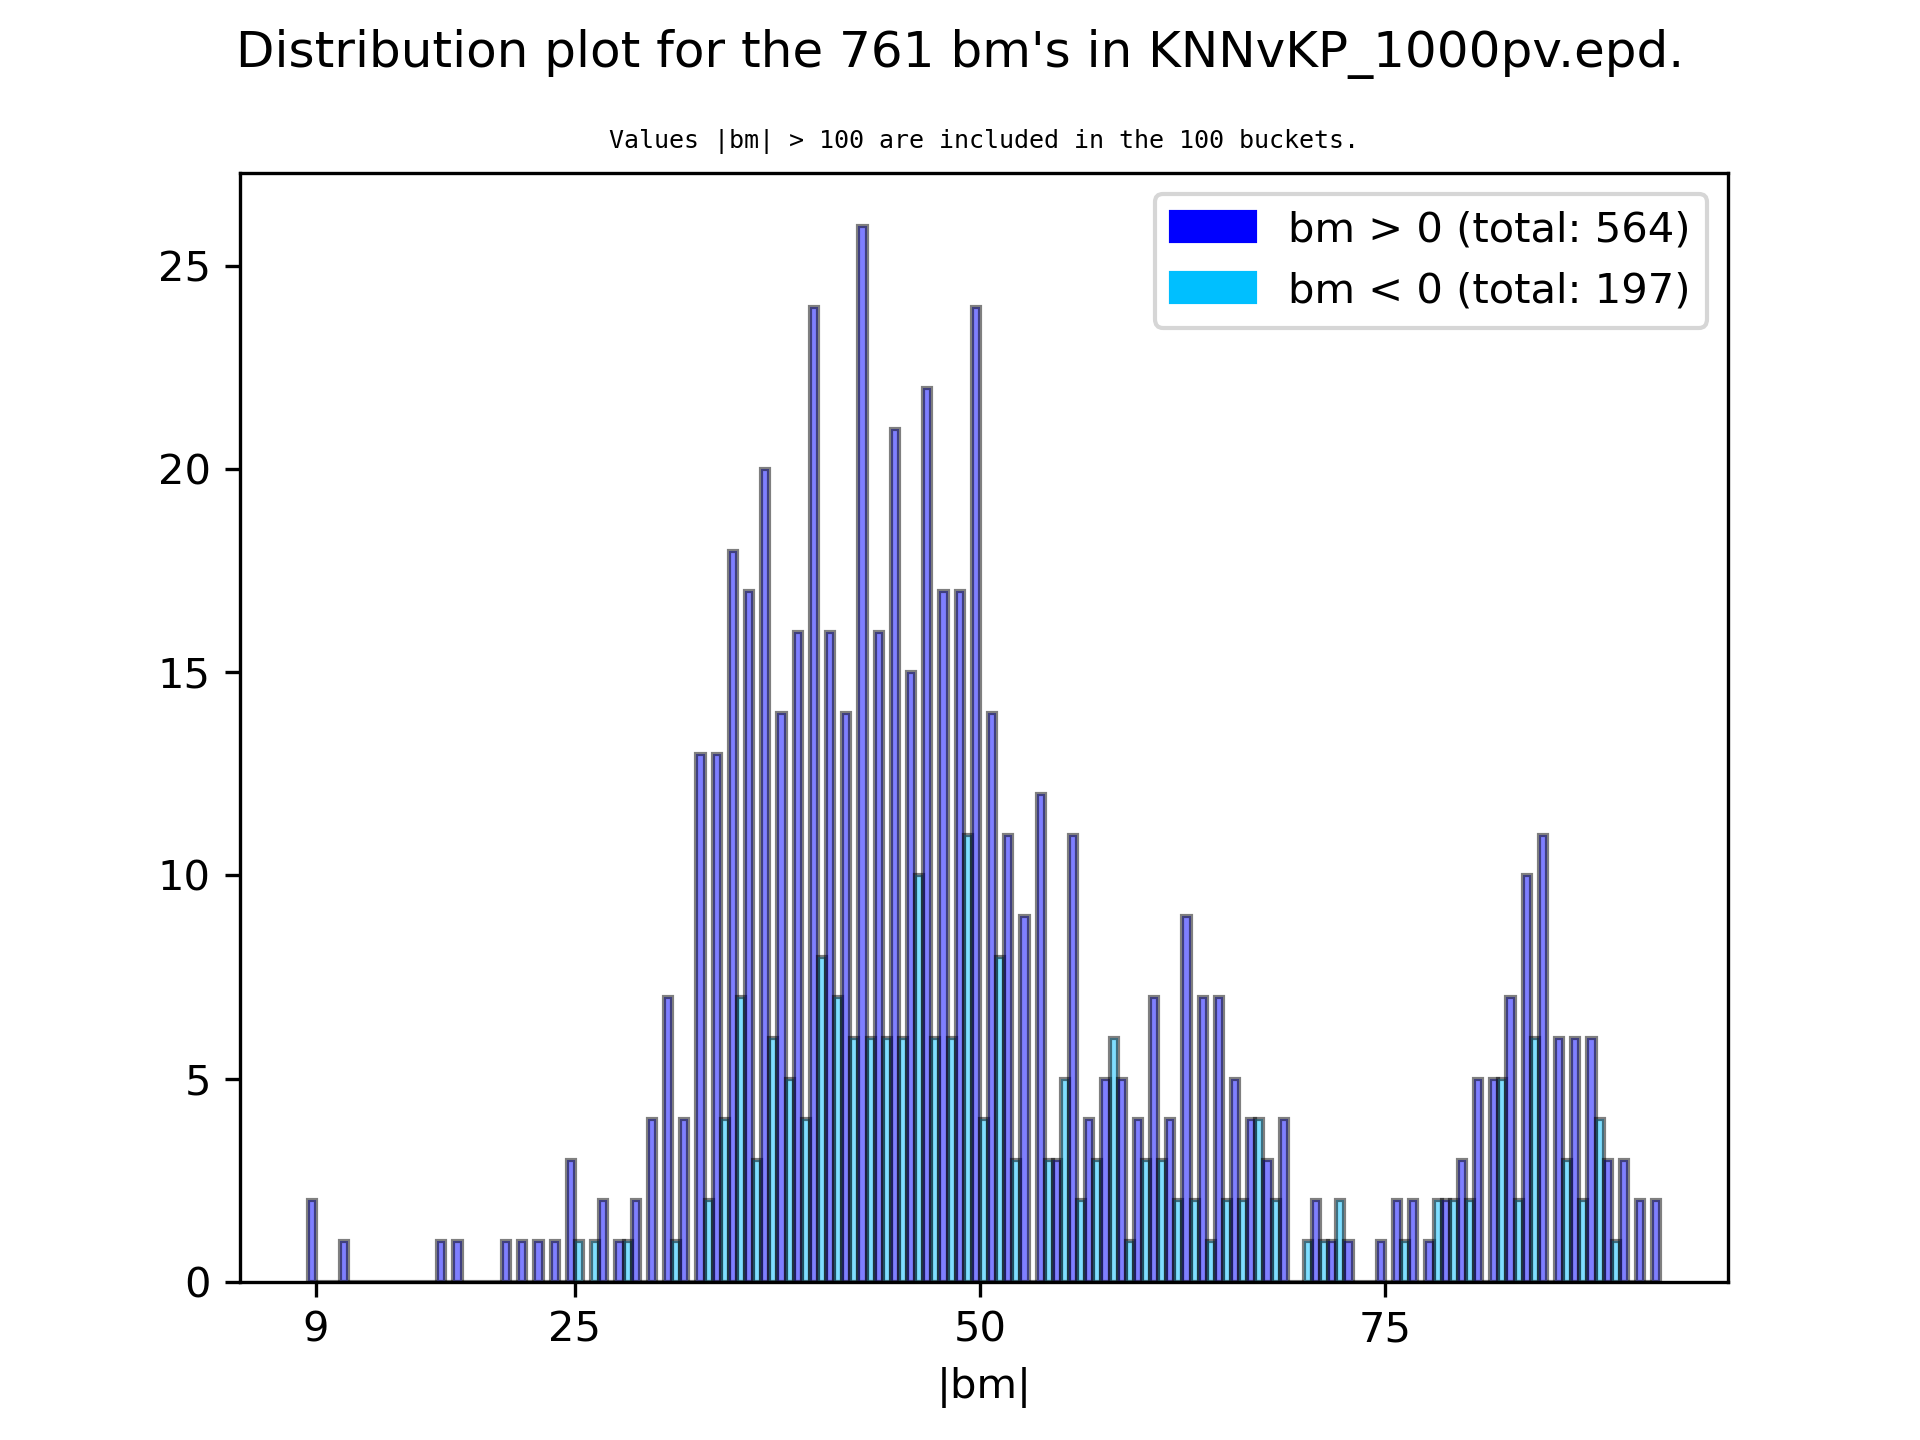
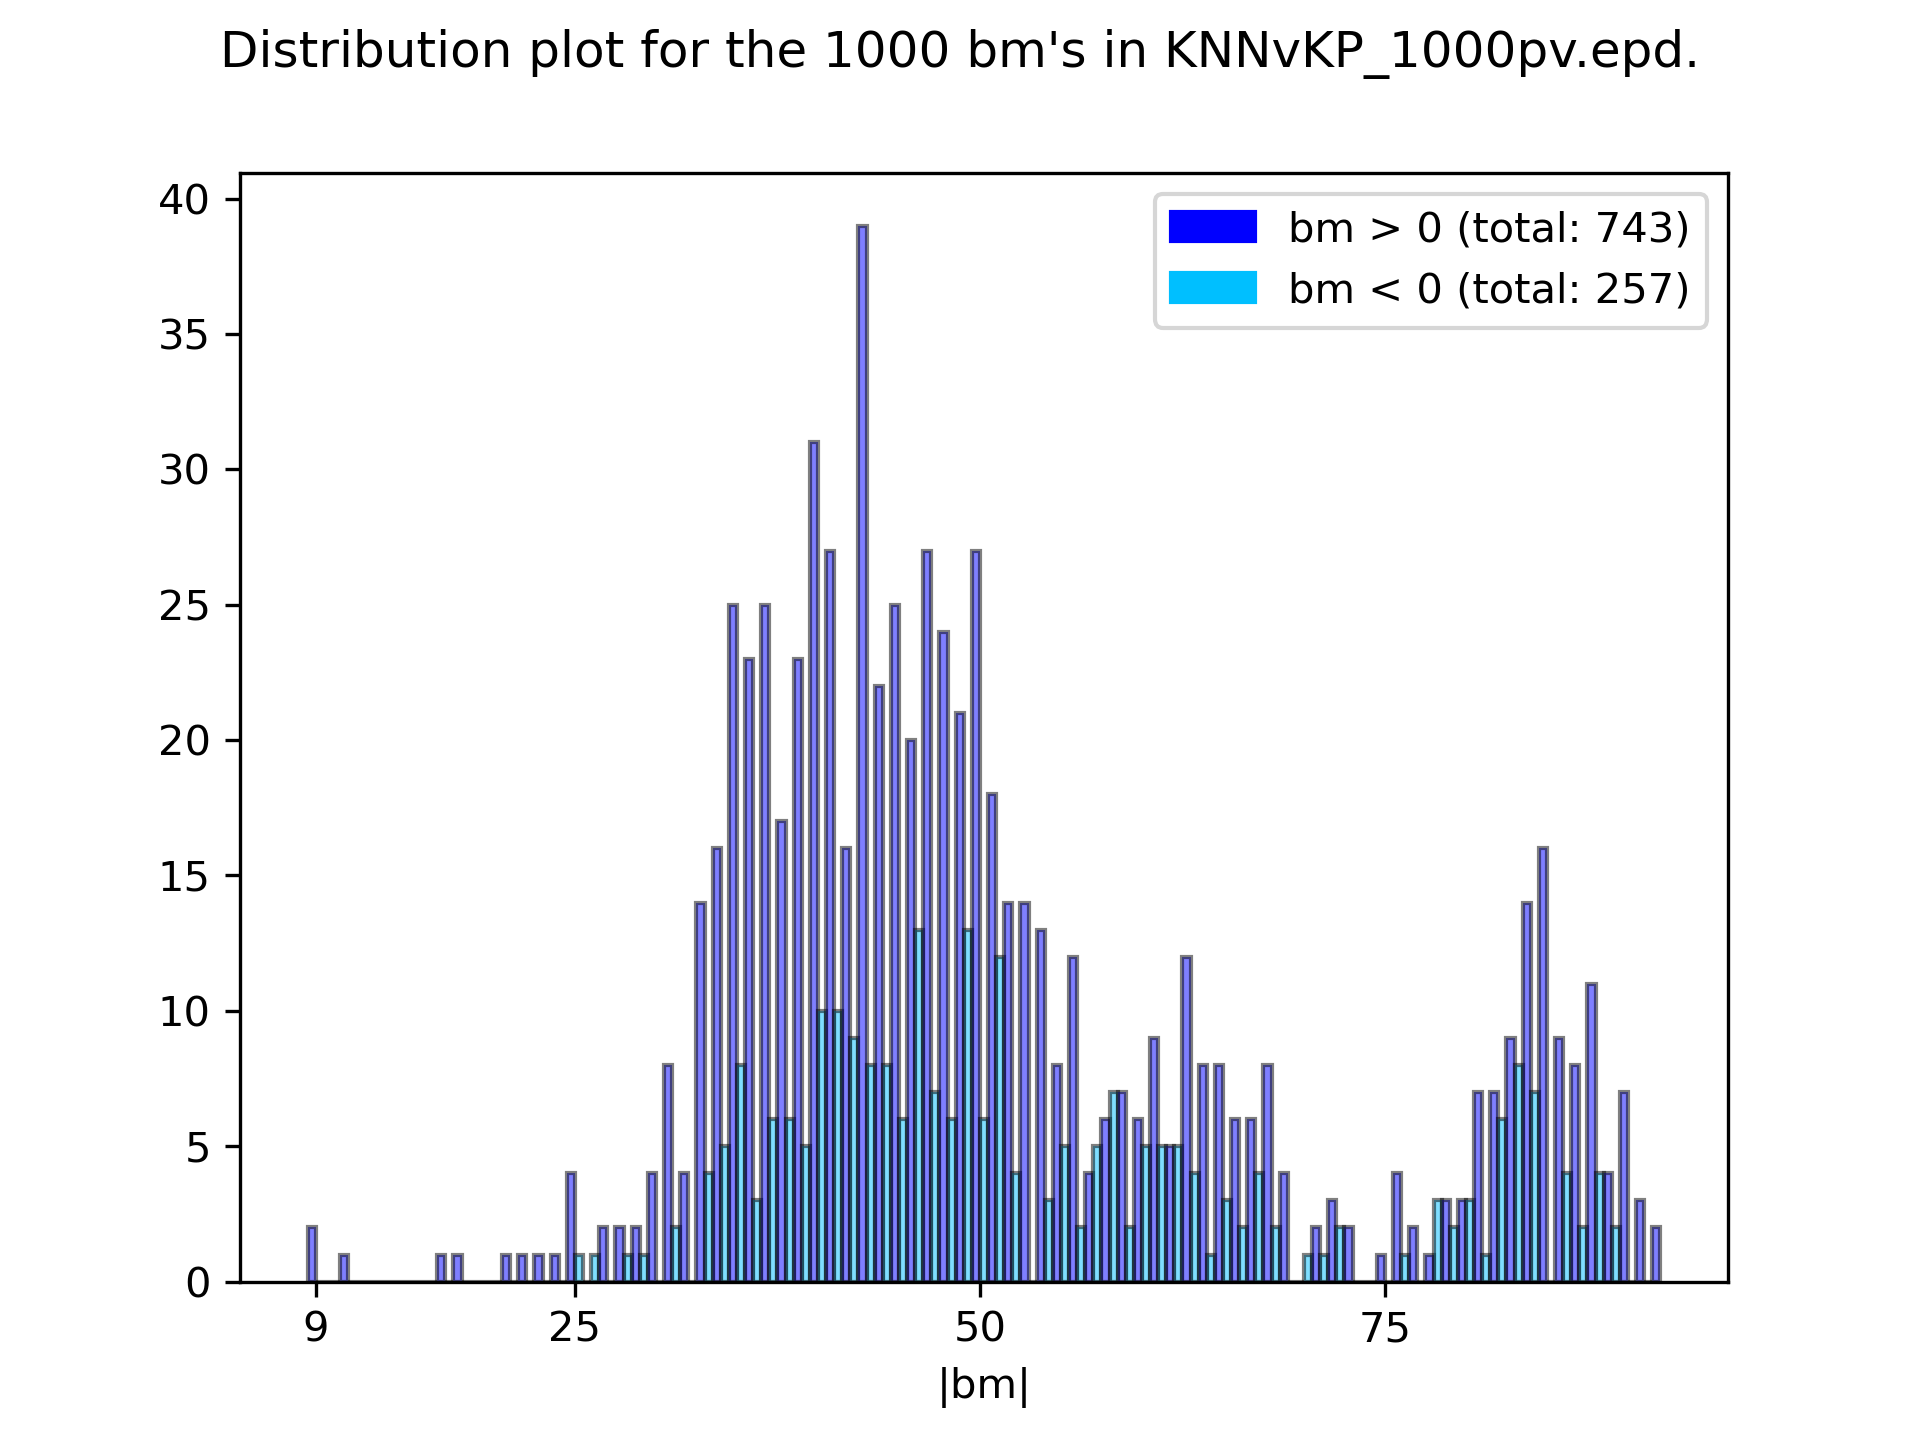
Complete KNNvKP

diff --git a/matestats.py b/matestats.py
@@ -86,7 +86,7 @@ class data:
         fig.suptitle(
             f"Distribution plot for the {self.bmplus+self.bmminus} bm's in {self.filename}.",
         )
-        if max(self.plies.keys()) > cutOff:
+        if max(self.plies.keys()) > 2 * cutOff:
             ax.set_title(
                 f"Values |bm| > {cutOff} are included in the {cutOff} buckets.",
                 fontsize=6,